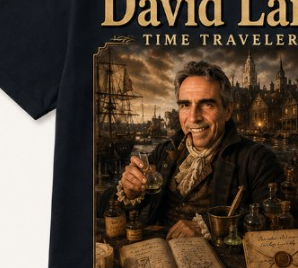
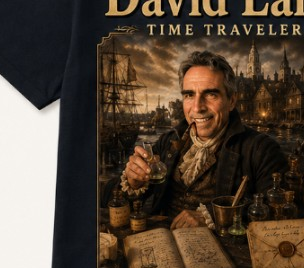
Fix Time Traveler shirt front by using full mockup panel instead of cropped art.

diff --git a/public/family/js/lane-heygen-print.js b/public/family/js/lane-heygen-print.js
@@ -169,14 +169,14 @@
     </svg>`;
   }
 
-  function renderShirt() {
-    const host = $('lhpShirtArt');
-    if (!host) return;
-    const design = shirtDesign();
-    const qrUrl = shirtQrUrl();
-    host.innerHTML = `
-      <div class="lhp-tt-sheet">
-        <article class="lhp-tt-panel lhp-tt-front" aria-label="T-shirt front">
+  function renderShirtFrontPanel(design) {
+    const panelUrl = design.frontPanelUrl;
+    if (panelUrl) {
+      return `<article class="lhp-tt-panel lhp-tt-front lhp-tt-front-full" aria-label="T-shirt front">
+          <img class="lhp-tt-front-panel-img" src="${esc(panelUrl)}" alt="${esc(design.heroName || 'David Lane')} — Time Traveler shirt front" crossorigin="anonymous" />
+        </article>`;
+    }
+    return `<article class="lhp-tt-panel lhp-tt-front" aria-label="T-shirt front">
           <h1 class="lhp-tt-name">${esc(design.heroName || 'David Lane')}</h1>
           <p class="lhp-tt-sub">
             <span class="lhp-tt-flourish" aria-hidden="true"></span>
@@ -193,7 +193,17 @@
             <span class="lhp-tt-rule" aria-hidden="true"></span>
           </p>
           <div class="lhp-tt-compass">${ttCompassSvg()}</div>
-        </article>
+        </article>`;
+  }
+
+  function renderShirt() {
+    const host = $('lhpShirtArt');
+    if (!host) return;
+    const design = shirtDesign();
+    const qrUrl = shirtQrUrl();
+    host.innerHTML = `
+      <div class="lhp-tt-sheet">
+        ${renderShirtFrontPanel(design)}
         <article class="lhp-tt-panel lhp-tt-back" aria-label="T-shirt back">
           <h2 class="lhp-tt-scan">${esc(design.backHeadline || 'SCAN THE STORY')}</h2>
           <div class="lhp-tt-flourish-divider" aria-hidden="true"></div>

diff --git a/public/family/css/lane-heygen-print.css b/public/family/css/lane-heygen-print.css
@@ -208,6 +208,21 @@
   min-height: 420px;
 }
 
+.lhp-tt-front-full {
+  padding: 0;
+  justify-content: center;
+  overflow: hidden;
+}
+
+.lhp-tt-front-panel-img {
+  width: 100%;
+  height: 100%;
+  min-height: 420px;
+  object-fit: contain;
+  object-position: center top;
+  display: block;
+}
+
 .lhp-tt-name {
   font-size: clamp(1.35rem, 3.8vw, 1.85rem);
   font-weight: 700;
@@ -239,19 +254,21 @@
 }
 
 .lhp-tt-art-frame {
-  width: min(78%, 220px);
-  aspect-ratio: 1;
-  padding: 4px;
+  width: min(88%, 260px);
+  aspect-ratio: 312 / 248;
+  padding: 5px;
   border: 2px solid var(--lhp-tt-gold);
   box-shadow: inset 0 0 0 1px rgba(201, 162, 39, 0.35);
   margin-bottom: 0.75rem;
   background: #0a0a0a;
+  line-height: 0;
 }
 
 .lhp-tt-art-frame img {
   width: 100%;
   height: 100%;
-  object-fit: cover;
+  object-fit: contain;
+  object-position: center;
   display: block;
 }
 
